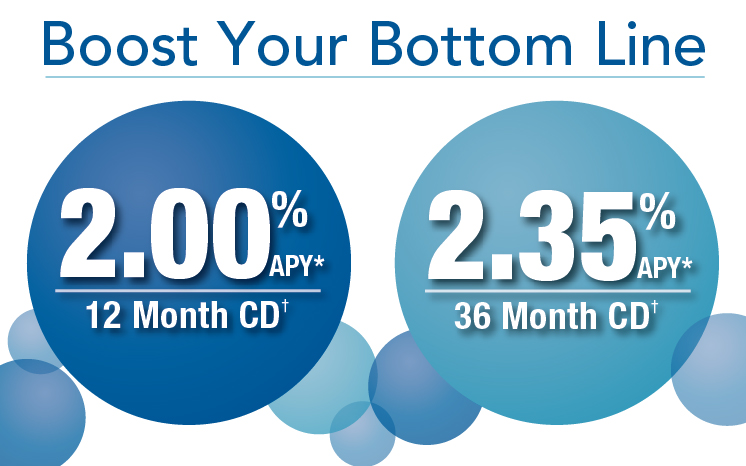
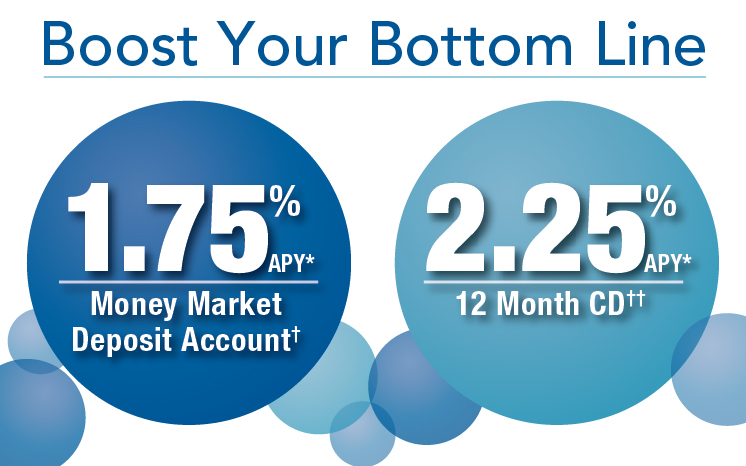
Update to CD / MM Promo

Changed region(s): [[0.0617, 0.3906, 0.4316, 0.7811], [0.555, 0.3906, 0.9249, 0.721]]

diff --git a/savings.html b/savings.html
@@ -132,14 +132,14 @@
                 <a class="anchor text-center" name="moneymarket"><h2>Money Market Accounts</h2></a>
               </div>
             </div><!-- row -->
-            <!-- <div class="row spacer">
+            <div class="row spacer">
               <div class="col-md-12">
                 <img class="picture" src="img/marine_boost_web1600x300.jpg">
               </div>
-            </div>--><!-- row -->
-            <!-- <div class="row spacer">
-              <p class="small para-margin"><sup>*</sup>Annual Percentage Yield (APY) <sup>†</sup>Money Market Deposit Account: Promotional rate of 1.35% APY on balances up to $249,999.99 and .50% APY on balances $250,000.00 and over for new accounts effective as of 11/13/17 and guaranteed for the first 182 days after account opening. Promotional rate offered on $10,000 or more of new money not currently on deposit within last 30 days with CIBM Bank. Minimum opening deposit of $10,000.00.  After 182 Day introductory period, the account will be converted to the Personal or Business Money Market. The interest rate on your account is subject to change at any time.  As of 11/13/17 Personal Money Market balances of $0.00-$9,999.99 (.08% APY); $10,000.00-$24,999.99 (.12% APY); $25,000.00-$49,999.99 (.15% APY); $50,000.00-$99,999.99 (.17% APY); $100,000.00 and above (.20% APY). Monthly fee $2.00 per debit if $1,000.00 minimum balance not maintained. As of 11/13/17 Business Money Market balances of $0.00-$9,999.99 (.08% APY); $10,000.00-$24,999.99 (.12% APY); $25,000.00-$49,999.99 (.15% APY); $50,000.00-$99,999.99 (.17% APY); $100,000.00 and above (.20% APY). Monthly fee $15.00 service charge if $5,000.00 minimum balance not maintained. Fees may reduce earnings. Accounts closed within 6 months of opening date subject to a $25.00 closing fee. <sup>††</sup>12 Month Certificate of Deposit & IRA: Promotional rate of 1.50% (APY) effective as of 11/13/17 and guaranteed for the term of the account. Offer limited to $10,000 or more of new money not currently on deposit within last 30 days with CIBM Bank. Minimum opening deposit of $2,500.00 and a maximum of $250,000.00. Withdrawals made prior to maturity may be subject to an early withdrawal penalty. Offer not available in combination with any other offer.</p>
-            </div>--><!-- row -->
+            </div><!-- row -->
+            <div class="row spacer">
+              <p class="small para-margin"><sup>*</sup>Annual Percentage Yield (APY) <sup>†</sup>Money Market Deposit Account: Promotional rate of 1.75% APY on balances up to $249,999.99 and .50% APY on balances $250,000.00 and over for new accounts effective as of 05/29/18 and guaranteed for the first 182 days after account opening. Promotional rate offered on $10,000.00 or more of new money not currently on deposit within last 30 days with CIBM Bank. Minimum opening deposit of $10,000.00. After 182 Day introductory period, the account will be converted to the Personal or Business Money Market. The interest rate is subject to change at any time. As of 05/22/18 Marine Bank Wisconsin Personal Money Market balances of $0.00-$9,999.99 (.08% APY); $10,000.00-$24,999.99 (.12% APY); $25,000.00-$49,999.99 (.15% APY); $50,000.00-$99,999.99 (.17% APY); $100,000.00 and above (.20% APY). Monthly fee $2.00 per debit if $1,000.00 minimum balance not maintained. As of 05/22/18 Marine Bank Wisconsin Business Money Market balances of $0.00-$9,999.99 (.08% APY); $10,000.00-$24,999.99 (.12% APY); $25,000.00-$49,999.99 (.15% APY); $50,000.00-$99,999.99 (.17% APY); $100,000.00 and above (.20% APY). As of 05/22/18 Marine Bank Indiana Personal Money Market balances of $0.00-$9,999.99 (.08% APY); $10,000.00-$24,999.99 (.12% APY); $25,000.00-$49,999.99 (.16% APY); $50,000.00-$99,999.99 (.17% APY); $100,000.00 and above (.18% APY). Monthly fee $2.00 per debit if $1,000.00 minimum balance not maintained. As of 05/22/18 Marine Bank Indiana Business Money Market balances of $0.00-$9,999.99 (.08% APY); $10,000.00-$24,999.99 (.12% APY); $25,000.00-$49,999.99 (.16% APY); $50,000.00-$99,999.99 (.17% APY); $100,000.00 and above (.18% APY). Monthly fee $15.00 service charge if $5,000.00 minimum balance not maintained. Fees may reduce earnings. Accounts closed within 6 months of opening date subject to a $25.00 closing fee. <sup>††</sup>12 Month Certificate of Deposit & IRA: Promotional rate of 2.25% (APY) effective as of 05/29/18 and guaranteed for the term of the account. Offer limited to $10,000.00 or more of new money not currently on deposit within last 30 days with CIBM Bank. Minimum opening deposit of $2,500.00 and a maximum of $250,000.00. Withdrawals made prior to maturity may be subject to an early withdrawal penalty. Offer not available in combination with any other offer.</p>
+            </div><!-- row -->
             <div class="row spacer">
               <div class="col-md-6">
                 <h2>Personal Money Market Accounts</h2>

diff --git a/index.html b/index.html
@@ -31,7 +31,7 @@
                         <!-- Wrapper for slides -->
                         <div class="carousel-inner">
                           <div class="item active">
-                            <a href="savings.html#cd"><img src="img/boostcd_car.jpg" alt="CD Offer"></a>
+                            <a href="savings.html#moneymarket"><img src="img/boostcd_car.jpg" alt="CD Offer"></a>
                           </div>
                           <div class="item">
                             <a href="acceleration.html"><img src="img/accelerationcarousel-2.jpg" alt="Personal Banking"></a>
